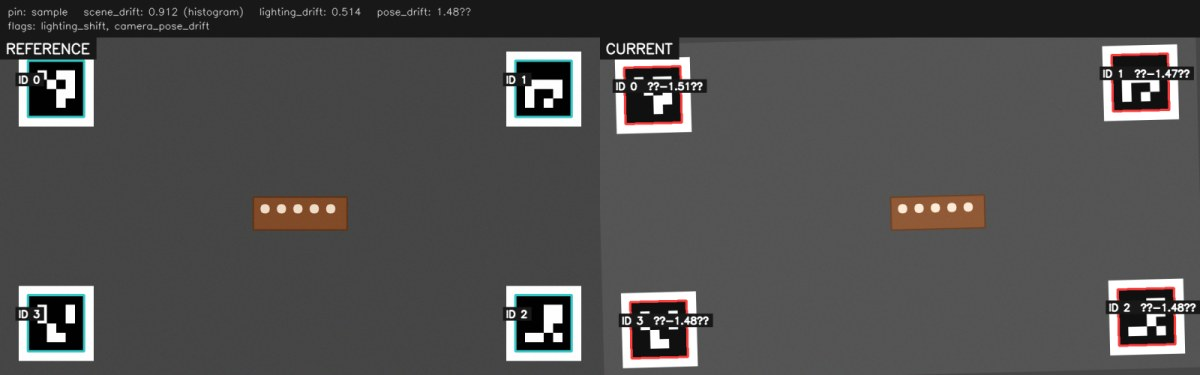
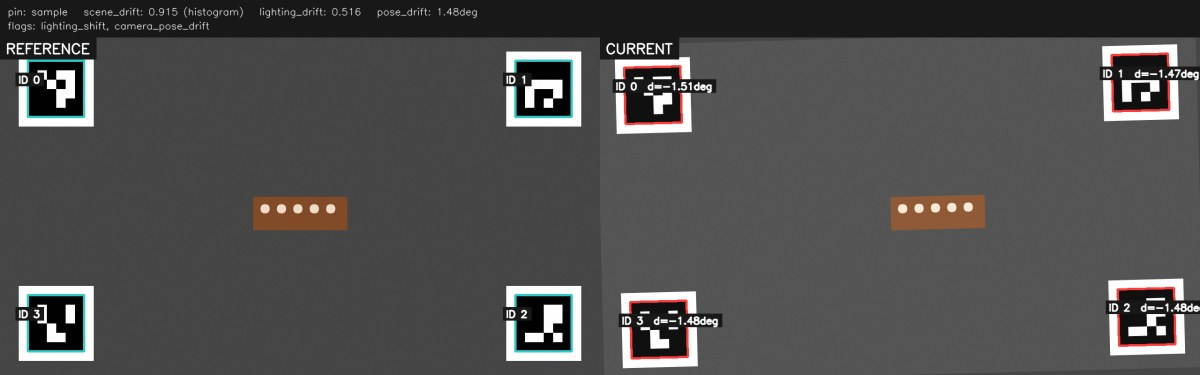
fix(diff): use ASCII-only labels — cv2.putText can't render Unicode
The annotated diff was showing 'ID 0  ??-1.51??' instead of the intended
'ID 0  Δ-1.51°' because OpenCV's FONT_HERSHEY_SIMPLEX has no support
for non-ASCII glyphs and falls back to '?' (one per byte of the
multi-byte UTF-8 character, hence the doubled question marks).

Two label sites affected:
* Per-marker delta in _annotate_pose: 'Δ{delta}°' → 'd={delta}deg'
* Header strip in _prepend_header: 'pose_drift: 1.48°' → 'pose_drift: 1.48deg'

JSON sidecar output is untouched — it never went through putText, so the
schema-stable scores keep their precise float representation. Only the
visual diff labels change.

Also regenerates docs/img/sample_diff.jpg from the fixed renderer so
the README hero shows clean ASCII labels instead of the '??' artifacts.

143 tests pass; mypy --strict + ruff clean.

diff --git a/src/anvil/diff.py b/src/anvil/diff.py
@@ -187,7 +187,10 @@ def _annotate_pose(
         cx, cy = quad.mean(axis=0)
         label = f"ID {marker_id}"
         if delta is not None:
-            label += f"  Δ{delta:+.2f}°"
+            # cv2.putText with FONT_HERSHEY_SIMPLEX is ASCII-only — Unicode
+            # glyphs like Delta or the degree sign render as '??'. Stick to
+            # ASCII labels here; the JSON sidecar keeps the precise number.
+            label += f"  d={delta:+.2f}deg"
         _draw_label(panel, label, (int(cx) - 80, int(cy) - 12))
     return panel
 
@@ -328,7 +331,7 @@ def _prepend_header(body: Frame, *, layer1: Layer1Output, pin_name: str) -> Fram
         f"pin: {pin_name}   "
         f"scene_drift: {layer1.scene_drift:.3f} ({layer1.scene_drift_source})   "
         f"lighting_drift: {layer1.lighting_drift:.3f}   "
-        f"pose_drift: {layer1.max_camera_pose_drift_deg:.2f}°"
+        f"pose_drift: {layer1.max_camera_pose_drift_deg:.2f}deg"
     )
     flags_line = (
         f"flags: {', '.join(layer1.flags)}" if layer1.flags else "flags: (none)"
